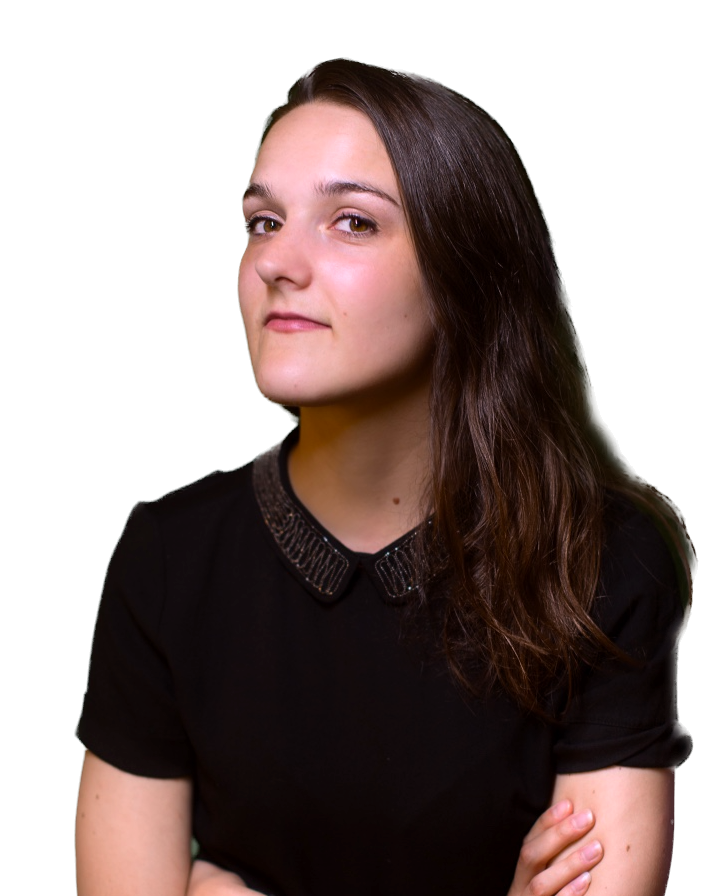
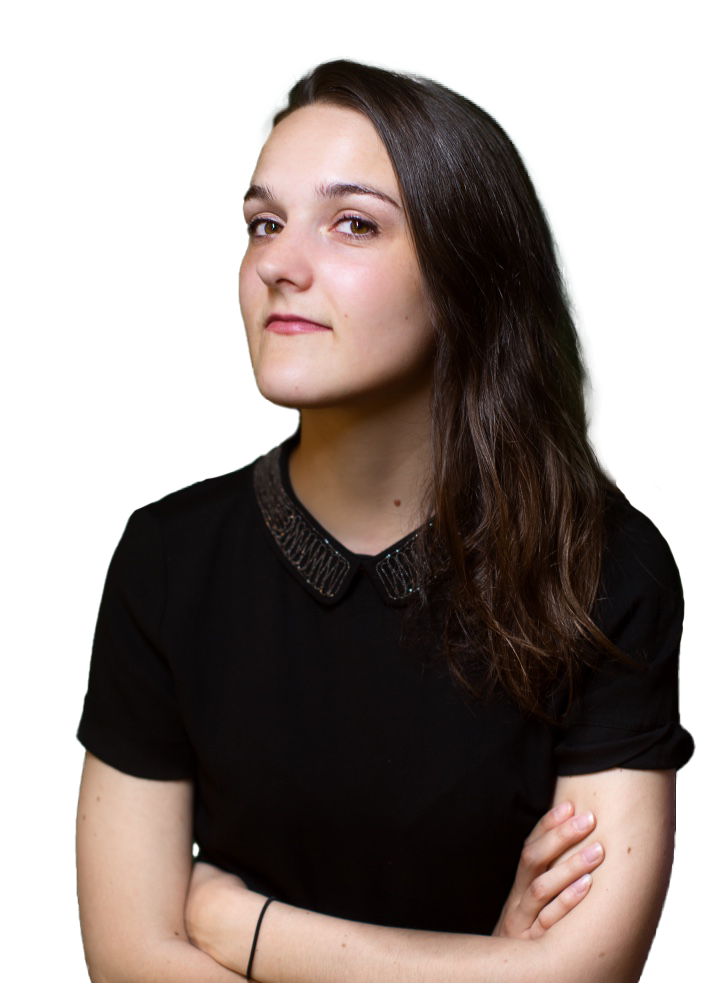
modif image et css(img vh responsive)

Changed region(s): [[0.0913, 0.0625, 0.9737, 1.0], [0.6086, 0.7188, 0.639, 0.75]]

diff --git a/public/css/styles.css b/public/css/styles.css
@@ -11598,7 +11598,7 @@ html {
   max-width: 40rem;
 }
 .profile .profile-img {
-  height: 80vw;
+  height: 85vw;
   max-height: 45rem;
   position: absolute;
   bottom: 0;
